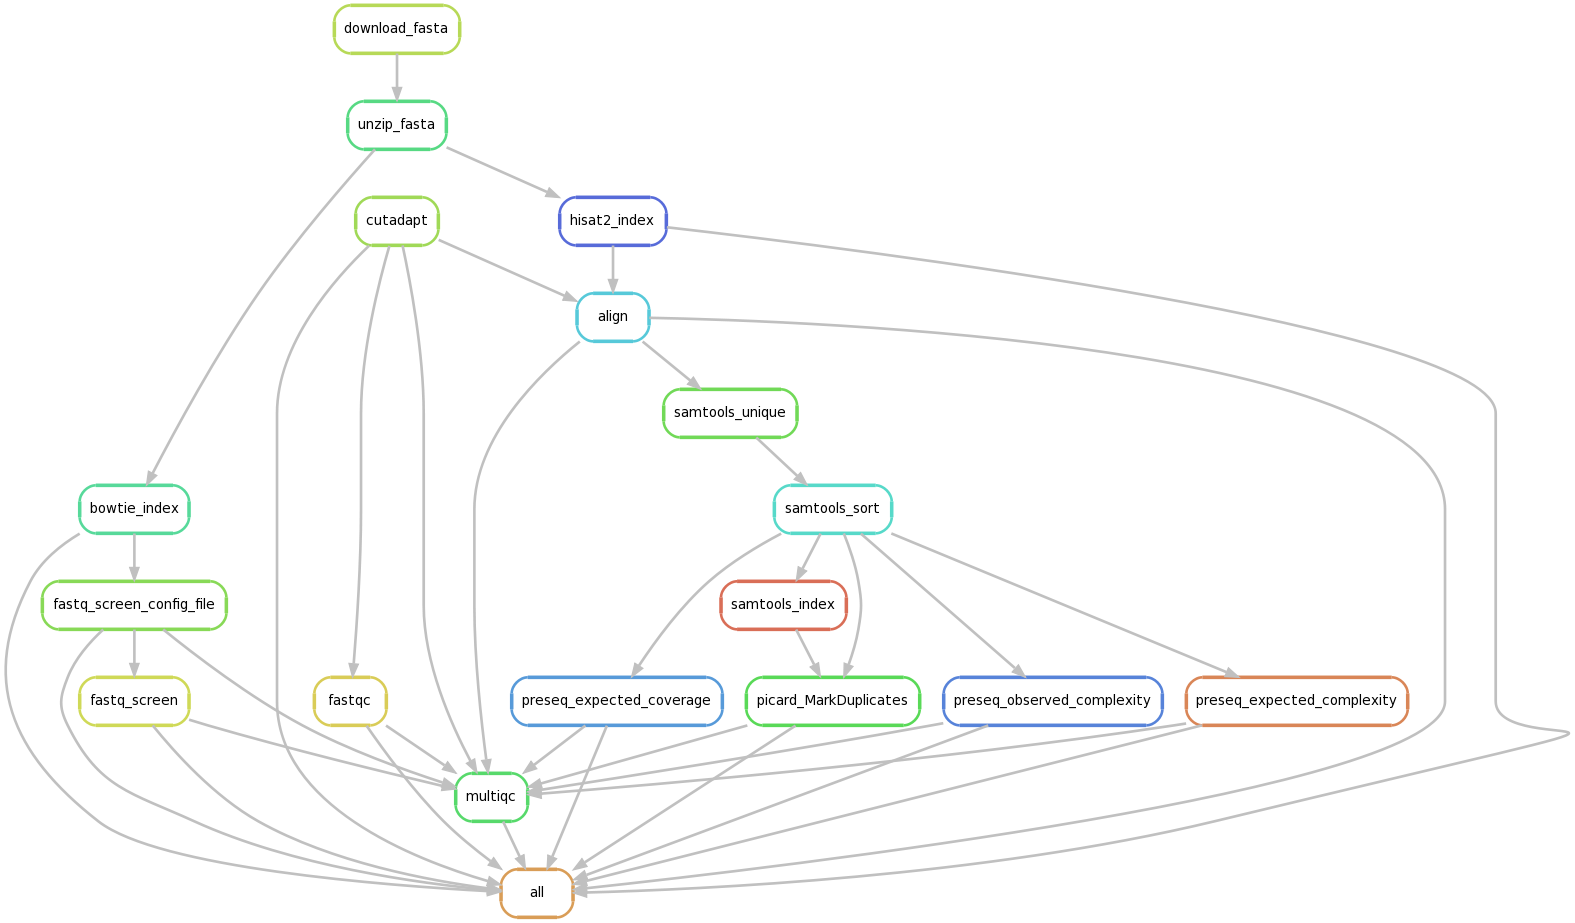
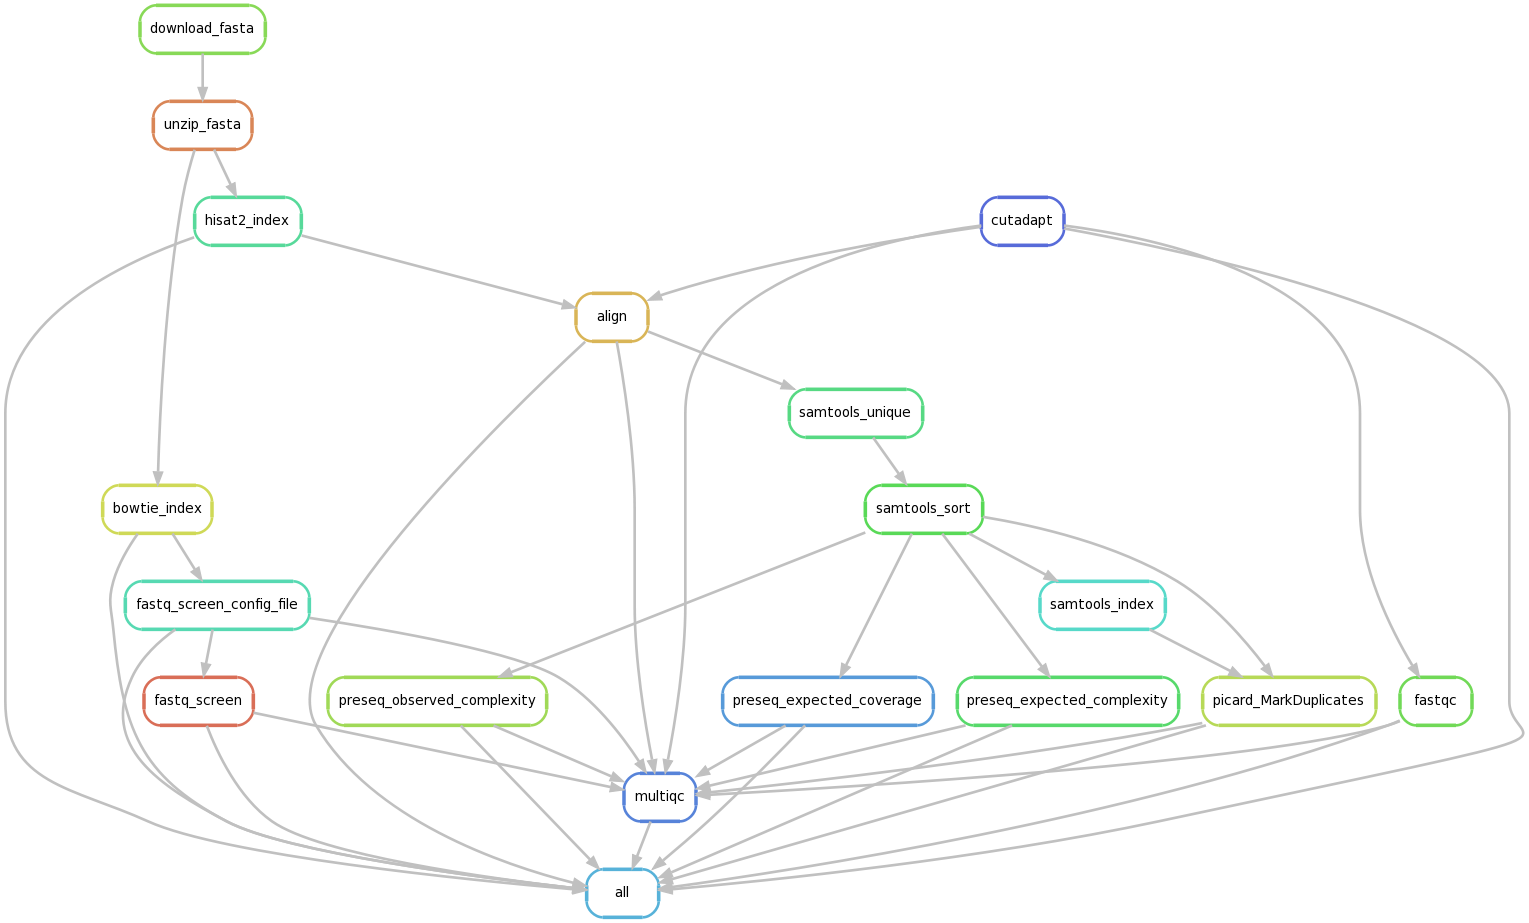
Adding gh-pages docs for commit a0055e2

diff --git a/searchindex.js b/searchindex.js
@@ -1,1 +1,1 @@
-Search.setIndex({envversion:48,filenames:["config","index","mapping","metadocs","references","setup","testing"],objects:{},objnames:{},objtypes:{},terms:{"11_transcriptom":0,"1_asm802v1":0,"1_asm802v1_genom":0,"2_asm584v2":0,"2_asm584v2_genom":0,"32g":[0,6],"case":6,"new":[5,6],"true":0,about:5,adapt:0,add:3,again:6,align:0,all:[0,6],alloc:6,alreadi:5,annot:0,arg:[0,6],assembl:0,assum:6,bash:3,bashrc:0,been:6,befor:6,best:1,bigzip:0,bowtie2:0,branch:3,build:[1,5,6],built:[3,6],can:5,chang:[3,6],check:3,checkout:3,chromfa:0,chromosom:0,clean:[5,6],clone:[3,5],cluster:[0,1,6],cluster_default:0,collect:1,com:5,combin:1,commit:3,common:6,complet:6,comput:1,conda:5,config:6,contain:6,content:1,convers:0,copi:3,core:[5,6],cse:0,current:[0,3],cutadapt:0,cutoff:0,dag:[2,4],data:[0,1,6],data_dir:0,delet:6,depend:5,destroi:6,devleop:6,differ:6,dir:3,directori:[3,5,6],dm6:0,dm6_default:0,dmel:0,doc:3,document:1,don:5,download:6,drosophila_melanogast:0,each:6,ecoli:0,ecoli_default:0,edu:0,email:6,ensur:5,entir:[3,6],env:[5,6],environ:[5,6],everyth:3,exampl:[0,6],exist:6,extra:0,failur:6,fasta:0,fasta_postprocess:0,fastq_screen:0,fastqc:0,file:[0,6],first:[],flybas:0,fna:0,follow:0,from:3,ftp:0,full:[2,4],gcf_000005845:0,gcf_000008025:0,gencod:0,gencode_human:0,gencode_v19_plus_lncrna_transcriptom:0,genom:0,git:[3,5],github:[3,5],give:6,goldenpath:0,gov:0,grch37:0,gtf:0,gtf_postprocess:0,have:[5,6],heavili:5,help:6,here:6,hg19:0,hgdownload:0,high:1,highli:1,hisat2:0,http:[0,3,5],index:[0,1],infrastructur:1,init:5,initi:5,instal:5,interact:6,interfac:6,intergen:0,intronlen:0,job:[2,4,6],kallisto:0,know:6,length:0,level:3,lncrna_transcript:0,machin:5,made:6,make:3,manag:5,mani:5,map:[],max:0,mem:[0,6],memori:6,min:5,miniconda:5,minim:6,minimum:0,mode:6,modul:1,more:6,most:6,ncbi:0,need:6,net:0,nih:0,nlm:0,node:6,note:6,onli:6,output:[5,6],over:3,overlap:0,p13:0,packag:5,page:[1,3],parallel:[1,6],param:0,pasilla:[0,5],pasilla_samplet:0,pc_transcript:0,per:6,perform:1,picard_markdupl:0,plus_lncrna_fasta_postprocess:0,postprocess:0,practic:1,prefix:0,probabl:6,process:1,product:6,pub:0,push:3,python:5,qualiti:0,rebuild:6,recommend:5,refer:[],refresh:6,release_19:0,remove_dupl:0,repo:[3,5],repositori:5,reproduc:[1,5],requir:6,rule:[0,6],rulegraph:[2,4],run:[0,2,4,5,6],run_test:[5,6],saccer3:0,saccer3_default:0,sample_dir:0,samplet:0,samtools_uniqu:0,sanger:0,sbatch:6,script:[3,5,6],search:1,see:3,sent:6,sequenc:1,set:[5,6],setup:[],shell_prefix:0,should:6,silent:0,singl:6,snakefil:[5,6],snakemak:1,some:6,sourc:0,specif:3,sphinx:3,state:3,submit:6,subsequ:[],support:1,tag:0,take:5,tar:0,temp:3,test:5,thi:[3,5,6],thread:[0,5,6],through:6,throughput:1,time:[],top:3,transcript:0,tsv:0,txt:6,type:0,ucsc:0,unus:6,updat:3,upon:6,url:0,user:6,v19:0,validation_string:0,version:[5,6],want:6,what:6,when:6,without:6,wolbachia:0,wolbachia_default:0,work:5,wrapper:6,you:[5,6],your:[5,6]},titles:["Configuration","LCDB workflows","Mapping workflow","Building documentation","References","First-time setup","Testing"],titleterms:{build:3,configur:0,document:3,first:5,indic:1,lcdb:1,map:2,refer:4,setup:5,subsequ:5,tabl:1,test:6,time:5,workflow:[1,2]}})
+Search.setIndex({envversion:48,filenames:["config","index","mapping","metadocs","references","setup","testing"],objects:{},objnames:{},objtypes:{},terms:{"11_transcriptom":0,"1_asm802v1":0,"1_asm802v1_genom":0,"2_asm584v2":0,"2_asm584v2_genom":0,"32g":[0,6],"case":6,"new":[5,6],"true":0,about:5,adapt:0,add:3,addit:3,again:6,align:0,all:[0,6],alloc:6,alreadi:5,ani:3,annot:0,arg:[0,6],assembl:0,assum:6,bash:3,bashrc:0,been:[3,6],befor:6,best:1,bigzip:0,bowtie2:0,branch:3,build:[],built:[3,6],can:5,chang:[3,6],check:3,checkout:3,chromfa:0,chromosom:0,clean:[5,6],clone:[3,5],cluster:[0,1,6],cluster_default:0,collect:1,com:5,combin:1,commit:3,common:6,complet:6,comput:1,conda:5,config:[3,6],contain:6,content:1,convers:0,copi:3,core:[5,6],correspond:3,cse:0,current:[0,3],custom:3,cutadapt:0,cutoff:0,dag:[2,3,4],data:[0,1,6],data_dir:0,delet:6,depend:[3,5],destroi:6,devleop:6,differ:6,dir:3,directori:[3,5,6],dm6:0,dm6_default:0,dmel:0,doc:3,document:[],doen:3,don:5,download:6,drosophila_melanogast:0,each:6,ecoli:0,ecoli_default:0,edu:0,email:6,ensur:5,entir:[3,6],env:[5,6],environ:[5,6],everyth:3,exampl:[0,6],exist:[3,6],extra:0,failur:6,fasta:0,fasta_postprocess:0,fastq_screen:0,fastqc:0,file:[0,3,6],first:[],flybas:0,fna:0,follow:0,from:3,ftp:0,full:[2,3,4],gcf_000005845:0,gcf_000008025:0,gencod:0,gencode_human:0,gencode_v19_plus_lncrna_transcriptom:0,genom:0,git:[3,5],github:[3,5],give:6,goldenpath:0,gov:0,grch37:0,gtf:0,gtf_postprocess:0,have:[3,5,6],heavili:5,help:6,here:6,hg19:0,hgdownload:0,high:1,highli:1,hisat2:0,html:3,http:[0,3,5],imag:3,index:[0,1],infrastructur:1,init:5,initi:5,instal:5,interact:6,interfac:6,intergen:0,intronlen:0,job:[2,4,6],kallisto:0,know:6,lcdb:0,length:0,level:3,lncrna_transcript:0,machin:5,made:6,make:3,makefil:3,manag:5,mani:5,map:[],max:0,mem:[0,6],memori:6,min:5,miniconda:5,minim:6,minimum:0,mode:6,modul:1,more:6,most:6,ncbi:0,need:6,net:0,nih:0,nlm:0,node:6,note:6,onli:6,output:[5,6],over:3,overlap:0,p13:0,packag:5,page:[1,3],parallel:[1,6],param:0,pasilla:[0,5],pasilla_samplet:0,pc_transcript:0,per:6,perform:1,picard_markdupl:0,plus_lncrna_fasta_postprocess:0,postprocess:0,practic:1,prefix:0,probabl:6,process:1,product:6,pub:0,push:3,python:5,qualiti:0,rebuild:6,recommend:5,refer:[0,3],refresh:6,release_19:0,remove_dupl:0,repo:[3,5],repositori:5,reproduc:[1,5],requir:6,rule:[0,3,6],rulegraph:[2,3,4],run:[0,2,4,5,6],run_test:[5,6],saccer3:0,saccer3_default:0,sample_dir:0,samplet:0,samtools_uniqu:0,sanger:0,save:3,sbatch:6,script:[3,5,6],search:1,see:3,sent:6,sequenc:1,set:[5,6],setup:[],shell_prefix:0,should:6,silent:0,singl:6,snakefil:[3,5,6],snakemak:1,some:[3,6],sourc:[0,3],specif:3,sphinx:3,standard:3,state:3,submit:6,subsequ:[],support:1,tag:0,take:5,tar:0,temp:3,test:[0,3,5],thi:[3,5,6],thread:[0,5,6],through:6,throughput:1,time:0,top:3,transcript:0,tsv:0,txt:6,type:0,ucsc:0,unus:6,updat:3,upon:6,url:0,user:6,v19:0,validation_string:0,version:[5,6],want:6,what:6,when:6,without:6,wolbachia:0,wolbachia_default:0,work:5,workflow:0,wrapper:6,you:[5,6],your:[5,6]},titles:["Configuration","LCDB workflows","Mapping workflow","Building documentation","References","First-time setup","Testing"],titleterms:{build:3,configur:0,document:3,first:5,indic:1,lcdb:1,map:2,refer:4,setup:5,subsequ:5,tabl:1,test:6,time:5,workflow:[1,2]}})

diff --git a/metadocs.html b/metadocs.html
@@ -49,7 +49,8 @@
 <p>Specifically, this script:</p>
 <blockquote>
 <div><ul class="simple">
-<li>build the sphinx documentation in its current state in the current directory</li>
+<li>build the sphinx documentation in its current state in the current
+directory using <code class="docutils literal"><span class="pre">(cd</span> <span class="pre">docs</span> <span class="pre">&amp;&amp;</span> <span class="pre">make</span> <span class="pre">html)</span></code></li>
 <li>clone the repo from github into a temp dir</li>
 <li>checkout the <a class="reference external" href="https://help.github.com/articles/creating-project-pages-manually/">gh-pages</a>
 branch</li>
@@ -57,6 +58,17 @@ branch</li>
 <li>add everything that was copied</li>
 <li>make a git commit (referring to the current commit of the entire repo)</li>
 <li>push the changes to github</li>
+</ul>
+</div></blockquote>
+<p>There are some custom additions to the standard sphinx Makefile as dependencies
+of the <code class="docutils literal"><span class="pre">html</span></code> rule, s</p>
+<blockquote>
+<div><ul class="simple">
+<li>the testing config file is copied over to the docs dir if it doens&#8217;t
+exist or has been updated</li>
+<li>if any of the workflows&#8217; Snakefiles have been updated, a rulegraph and
+full dag is built for that workflow and the corresponding images are
+saved in the docs/source/images dir</li>
 </ul>
 </div></blockquote>
 </div>

diff --git a/references.html b/references.html
@@ -24,6 +24,7 @@
     <script type="text/javascript" src="_static/underscore.js"></script>
     <script type="text/javascript" src="_static/doctools.js"></script>
     <link rel="top" title="lcdb-workflows 0.1 documentation" href="index.html" />
+    <link rel="next" title="Building documentation" href="metadocs.html" />
     <link rel="prev" title="Mapping workflow" href="mapping.html" />
    
   <link rel="stylesheet" href="_static/custom.css" type="text/css" />
@@ -61,6 +62,7 @@
 <ul>
   <li><a href="index.html">Documentation overview</a><ul>
       <li>Previous: <a href="mapping.html" title="previous chapter">Mapping workflow</a></li>
+      <li>Next: <a href="metadocs.html" title="next chapter">Building documentation</a></li>
   </ul></li>
 </ul>
 </div>
